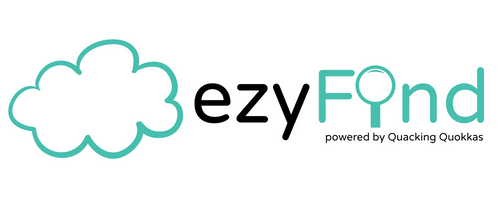
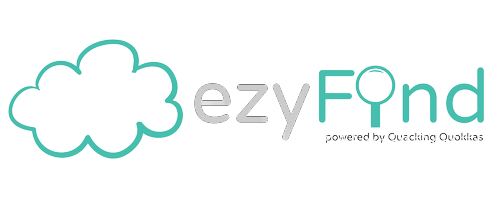
wip: finalizing styling

diff --git a/frontend/src/pages/ScanScreen.js b/frontend/src/pages/ScanScreen.js
@@ -1,6 +1,6 @@
 import React, { useState } from 'react';
-import logo from '../assets/ezyFind_Horizontal.png';
-import puppyPic from '../assets/Lost_Puppy.jpg';
+
+import puppyPic from '../assets/Lost_Puppy.jpeg';
 import '../styles/ScanScreen.css';
 
 const ScanScreen = () => {
@@ -19,22 +19,26 @@ const ScanScreen = () => {
 
   return (
     <div className='scan-container'>
-      <div className='images-container'>
-        <img id='logo' src={logo} alt='ezyFind logo' />
-        {/* <img id='puppy-pic' src={puppyPic} alt='sad puppy' /> */}
+      <h1 className='lost-owner-header'>I seem to have lost my owner.</h1>
+      <div className='dog-container'>
+        <p className='pet-name-header'>
+          My name is <b>{petName}</b>
+        </p>
+        <img id='puppy-pic' src={puppyPic} alt='sad puppy' />
+        <p>
+          My owner's number is: <b>0272392173</b>
+        </p>
+        <button id='phone-button'>Call owner</button>
       </div>
-      <div className='header-container'>
-        <h1 className='lost-owner-header'>I seem to have lost my owner.</h1>
-        <h3 className='pet-name-header'>My name is {petName}</h3>
-        <h3>My owners number is: 0272392173</h3>
-        <button>Phone owner</button>
-      </div>
+      <div className='header-container'></div>
       <form onSubmit={handleSubmit}>
         <div className='form-container'>
-          <p>or</p>
+          {/* <p>or</p> */}
+          
           <h3>Please enter your details to help me find my owner</h3>
 
           <input
+            className='scan-input'
             type='text'
             value={scannerName}
             placeholder='Full Name*'
@@ -42,6 +46,7 @@ const ScanScreen = () => {
           />
 
           <input
+            className='scan-input'
             type='email'
             value={scannerEmail}
             placeholder='Email Address*'
@@ -49,12 +54,13 @@ const ScanScreen = () => {
           />
 
           <input
+            className='scan-input'
             type='tel'
             value={scannerPhone}
             placeholder='Phone Number'
             onChange={(e) => setScannerPhone(e.target.value)}
           />
-          <input className='submit-button' type='submit' />
+          <input id='submit-button' className='submit-button' type='submit' />
         </div>
       </form>
       <div className='bottom-buttons-container'></div>

diff --git a/frontend/src/styles/ScanScreen.css b/frontend/src/styles/ScanScreen.css
@@ -2,28 +2,64 @@
     display: flex;
     flex-direction: column;
     align-items: center;
+    background-color: azure;
     
 }
 
-.header-container {
+.dog-container {
     display: flex;
     flex-direction: column;
     align-items: center;
 
+}
+
+#phone-button{
+
+    width: 200px;
+    height: 40px;
+    text-color: aliceblue;
+    background-color: #47bfaf;
+    font-weight: bold;
+    font-size: 15px;
+    border: none;
+    border-radius: 5px;
 }
 
 .form-container {
     display: inline-flex;
     flex-direction: column;
     align-items: center;    
+
 }
+
+.scan-input{
+    width: 300px;
+    height: 30px;
+    border-radius: 5px;
+    margin-top: 5px;
+
+}
+
+
 
 .images-container{
     display: flex;
     flex-direction: column;
     align-items: center;
+
 }
 
+#submit-button{
+    width: 200px;
+    height: 40px;
+    text-color: aliceblue;
+    background-color: #47bfaf;
+    font-weight: bold;
+    font-size: 15px;
+    border: none;
+    border-radius: 5px;
+    margin-top: 20px;
+}
 
 .bottom-buttons-container{
     display: flex;
@@ -32,12 +68,14 @@
 }
 
 #puppy-pic{
-    width: 200px;
-    height:250px;
+    clip-path: circle();
+    max-width: 300px;
+    height:auto;
 }
 
 #logo{
-    width:90%;
+    width:70%;
+    left: 0px;
 }
 
 h1 {

diff --git a/frontend/src/components/Navbar.css b/frontend/src/components/Navbar.css
@@ -1,0 +1,32 @@
+.navbar {
+    display: flex;
+    flex-direction: column;
+    align-items: center;
+    height: 100px;
+    background-color: #031e45;
+    width: 100%;
+    /* justify-content: space-between; */
+}
+
+#logo {
+    width: 60%;
+    height: auto;
+    position: absolute;
+    left: 0;
+    top: 5px;
+}
+
+#nav-button {
+    width: 100px;
+    text-color: aliceblue;
+    background-color: #47bfaf;
+    font-weight: bold;
+    font-size: 15px;
+    border: none;
+    border-radius: 5px;
+    height: 30px;
+    margin-left: 200px;
+    position: absolute;
+    right: 10px;
+    top: 40px;
+}

diff --git a/frontend/src/components/Navbar.js b/frontend/src/components/Navbar.js
@@ -1,0 +1,14 @@
+import React from 'react';
+import logo from '../assets/ezyFind_Horizontal.png';
+import '../components/Navbar.css';
+
+const Navbar = () => {
+  return (
+    <div className='navbar'>
+      <img id='logo' src={logo} alt='ezyFind logo' />
+      <button id='nav-button'>Register</button>
+    </div>
+  );
+};
+
+export default Navbar;

diff --git a/frontend/src/App.js b/frontend/src/App.js
@@ -1,12 +1,17 @@
 import './App.css';
 import ScanScreen from './pages/ScanScreen';
+import Navbar from './components/Navbar';
 
 function App() {
   return (
     <>
     <div>
-      <ScanScreen />
 
+      <Navbar />
+    </div>
+    <div>
+
+      <ScanScreen />
     </div>
     </>
   );
